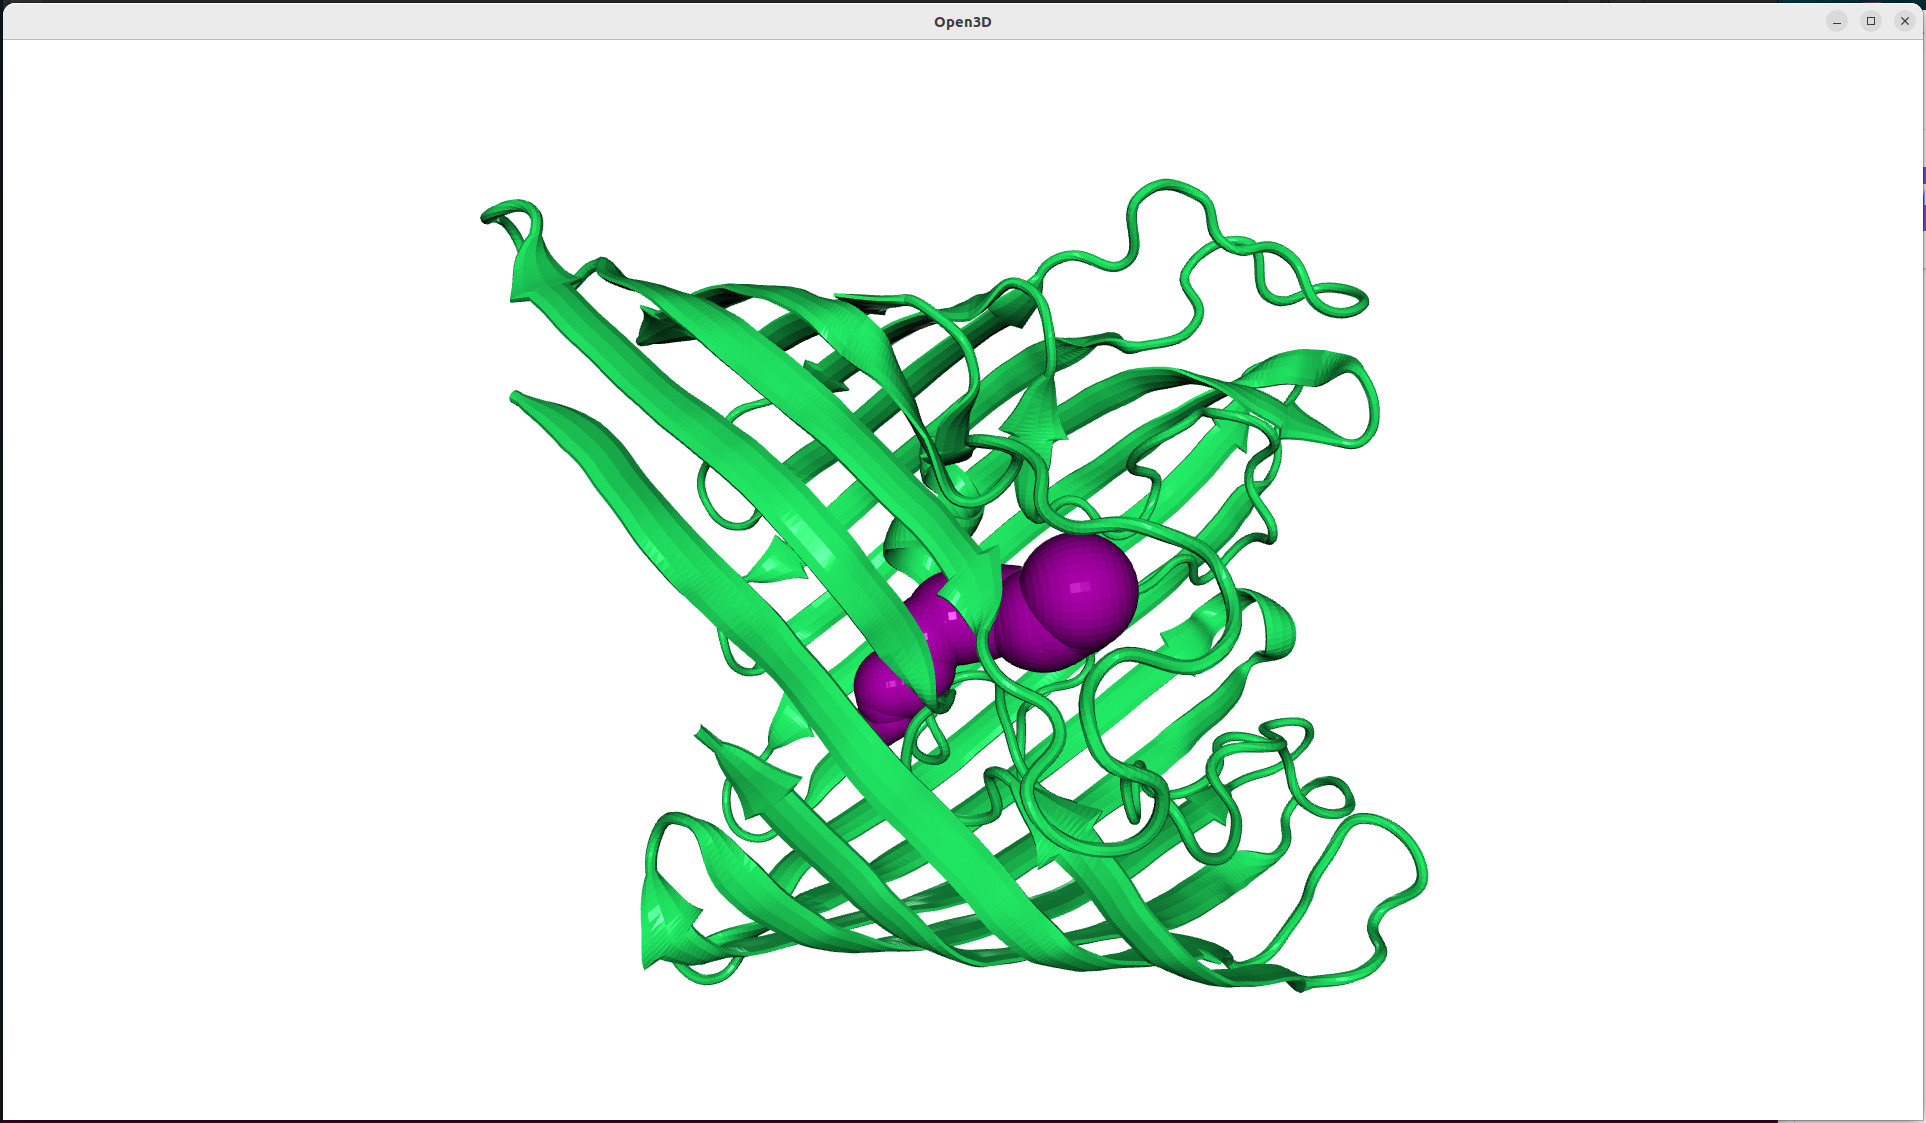
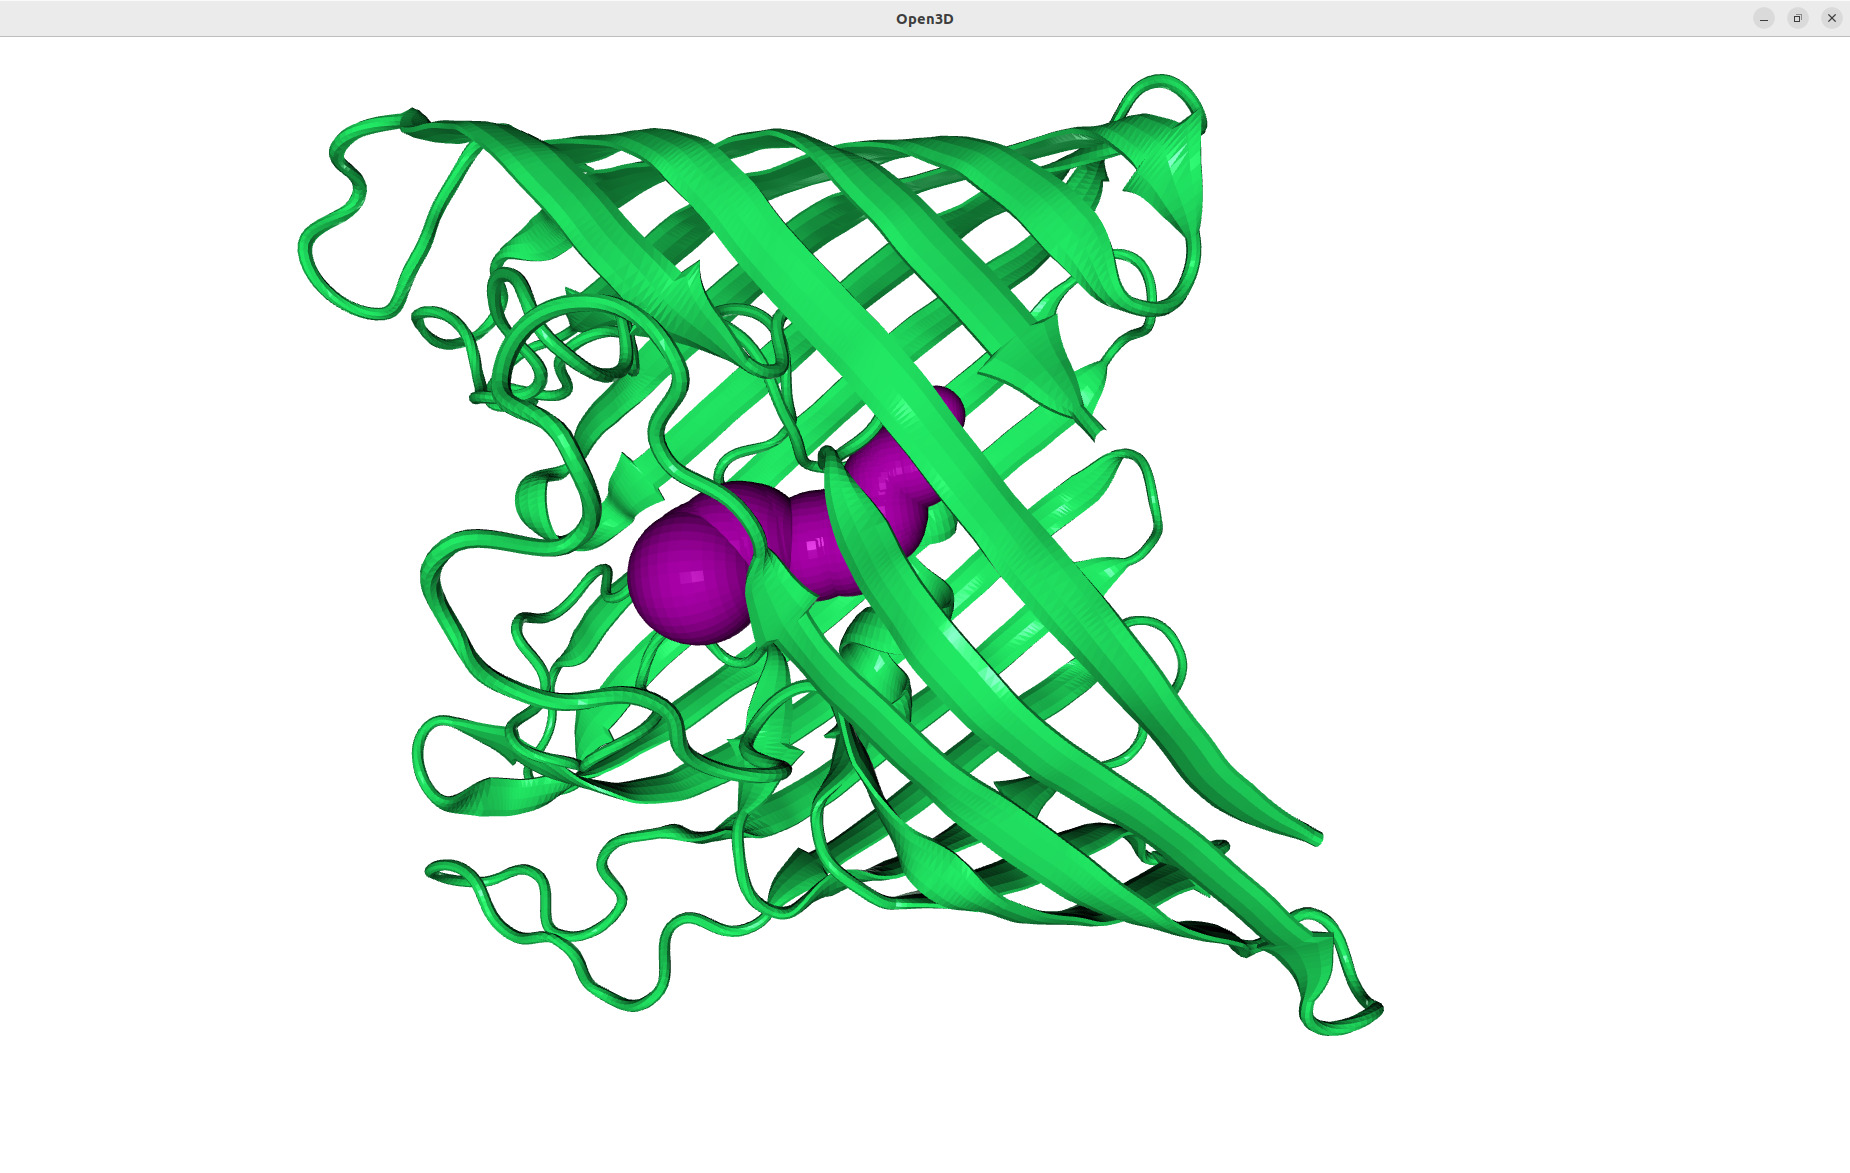
CaviTracer - pores & figs (singlePDB) after JB changes 2

diff --git a/tutorials/cavitracer_tutorial/singlePDB.rst b/tutorials/cavitracer_tutorial/singlePDB.rst
@@ -955,18 +955,22 @@ separately as PQR files (``separate`` = True). Additionally, we are using
 
    @> Using user-provided start_point for channel seed: [39.277, 43.995, -0.961] Å
    @> The atoms supplied to calcChannels contain protein atoms only.
-   @> WARNING structure has no hydrogens and inner_radius=1.00 is below 1.2 A: the space left by the missing H is then wide enough for the probe to pass, and channels will be found through interstices that do not exist in the real protein (their number can rise several-fold). Either add hydrogens, or raise r2 to 1.2 A or more, where protonated and unprotonated structures give the same channels.
-   @> Substituted 2447 atoms with 14777 homogeneous balls of radius 1.52 A in 0.19s.
-   @> Delaunay tessellation of 14777 points constructed in 0.46s.
-   @> Surface and inner simplices filtered in 1.49s.
-   @> start_point seeded at tetrahedron 2488 (Voronoi vertex at [40.254, 44.976, -0.984], 1.385 A from start_point, inscribed radius 1.021 A, depth 6.6 A).
-   @>     already the widest of the 1 tetrahedra no shallower than it among the 3 reachable within 3.0 A.
-   @>     restricting the channel search to the cavity that contains it (2588 tetrahedra, depth 24.5 A).
-   @> 1 surface cavities detected and filtered in 0.18s.
-   @> Channel pathfinding (graph Dijkstra) over 1 cavities completed in 0.21s.
-   @> Detected 4 channels.
-   @> Saving multiple results to directory ..
-   @> Channel calculation completed in 2.56s.
+   @> WARNING structure has no hydrogens and inner_radius=1.00 is below 1.2 Å: the space left by the missing H is then wide enough for the probe to pass, and channels will be found through interstices that do not exist in the real protein (their number can rise several-fold). Either add hydrogens, or raise inner_radius to 1.2 Å or more, where protonated and unprotonated structures give the same channels.
+   @> Substituted 2447 atoms with 14777 homogeneous balls of radius 1.52 Å in 0.19s.
+   @> Delaunay tessellation of 14777 points constructed in 0.43s.
+   @> Surface and inner simplices filtered in 1.53s.
+   @> start_point seeded at tetrahedron 2488 (Voronoi vertex at [40.254, 44.976, -0.984], 1.385 Å from start_point, inscribed radius 1.021 Å, depth 6.6 Å).
+   @>     already the widest of the 1 tetrahedra no shallower than it among the 3 reachable within 3.0 Å.
+   @>     restricting the channel search to the cavity that contains it (2588 tetrahedra, depth 24.5 Å).
+   @> Surface cavities: 1 found, 1 deeper than min_depth=5.0 Å and searched for channels, in 0.18s.
+   @> Channel search (Dijkstra) over 1 search sites in 1 cavities completed in 0.20s.
+   @> Found 4 channels.
+   @> Search sites (sp), the void each search ran from, largest first; sp<n> tags every channel, link and output file:
+   @>     site  void             volume [Å³]  depth [Å]  channels  links
+   @>     sp0   cavity 0, whole         7335        6.6         4      -
+   @>     (site volumes measure the void itself and are not on the swept-sphere scale of the channel volumes)
+   @> Saving 4 channels to directory ., one file per object named sp<site>_chl<n>.
+   @> Channel calculation completed in 2.64s.
 
 
 Becasue PQR files with channels were saved, they can be displayed in VMD_.
@@ -1056,20 +1060,12 @@ length, and bottleneck.
 
 .. parsed-literal::
 
-   @> 2547 atoms and 1 coordinate set(s) were parsed in 0.03s.
-   @> 2552 atoms and 1 coordinate set(s) were parsed in 0.04s.
-   @> 2562 atoms and 1 coordinate set(s) were parsed in 0.04s.
-   @> 2577 atoms and 1 coordinate set(s) were parsed in 0.03s.
-   @> 2587 atoms and 1 coordinate set(s) were parsed in 0.03s.
-   @> 2492 atoms and 1 coordinate set(s) were parsed in 0.03s.
-
-   ['pore0: ALA109, ARG133',
-    'pore1: ALA34, SER35, THR36, ARG38, ARG75, SER108, ALA109, ARG133',
-    'pore2: ILE9, SER35, THR36, ARG38, ARG75, SER108, ALA109, ARG133',
-    'pore3: ALA34, SER35, THR36, ARG38, ARG75, SER108',
-    'pore4: ILE9, SER35, THR36, ARG38, ARG75, SER108',
-    'pore5: ILE9, ALA34, SER35, ARG38, SER108']
-
+   ['pore0: THR36:X, ARG38:X, GLU60:X, ARG75:X, LEU94:X, GLN99:X, THR102:X, SER103:X, SER108:X, ALA109:X, ASN130:X, ILE132:X, ARG133:X, LYS308:X',
+    'pore1: ALA34:X, SER35:X, THR36:X, ARG38:X, GLU60:X, ARG75:X, LEU94:X, SER108:X, ALA109:X, THR110:X, ASN130:X, ILE132:X, ARG133:X, LYS308:X',
+    'pore2: ILE9:X, ALA34:X, SER35:X, THR36:X, ARG38:X, GLU60:X, ARG75:X, LEU94:X, SER108:X, ALA109:X, THR110:X, ASN130:X, ILE132:X, ARG133:X, LYS308:X',
+    'pore3: ALA34:X, SER35:X, THR36:X, ARG38:X, ARG75:X, LEU94:X, GLN99:X, THR102:X, SER103:X, SER108:X, ALA109:X, THR110:X, ILE132:X, ARG133:X',
+    'pore4: ILE9:X, ALA34:X, SER35:X, THR36:X, ARG38:X, ARG75:X, LEU94:X, GLN99:X, THR102:X, SER103:X, SER108:X, ALA109:X, THR110:X, ILE132:X, ARG133:X',
+    'pore5: ILE9:X, ALA34:X, SER35:X, THR36:X, ARG38:X, SER108:X']
 
 .. ipython:: python
    :verbatim:
@@ -1104,7 +1100,6 @@ length, and bottleneck.
      763.2420957499684,
      833.9855419940334,
      128.78107671605596])
-
 
 For some structures, particularly when a smaller ``r2`` value is used,
 predictions may provide a large number of channels. Consequently, the number
